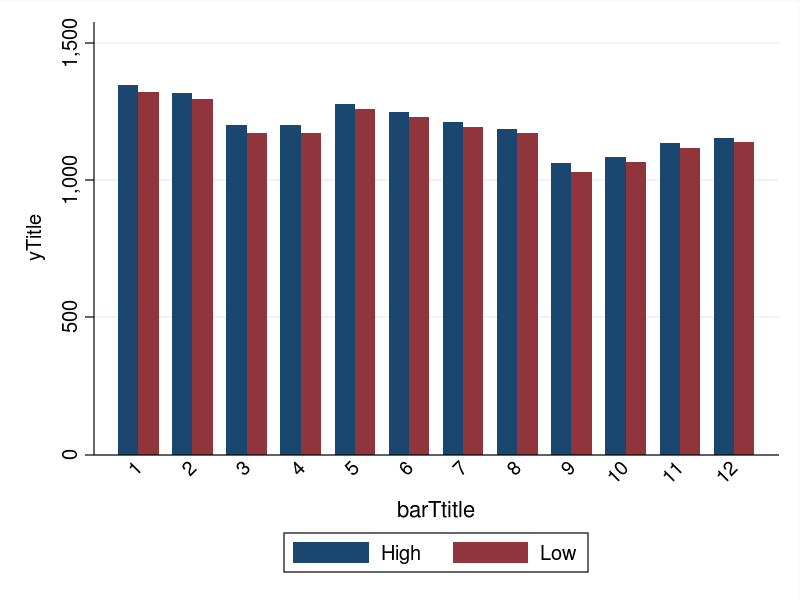
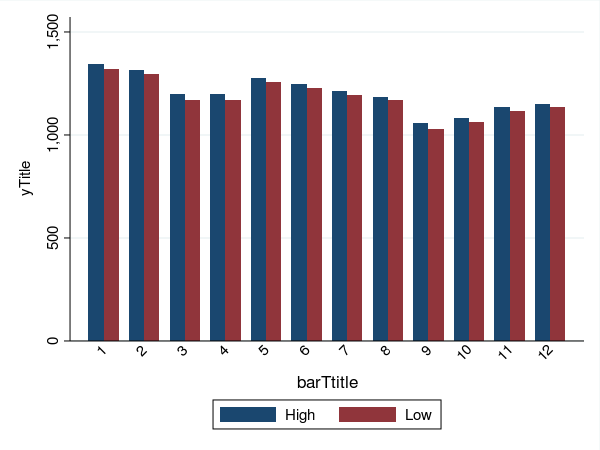
change

diff --git a/stata_graph.html b/stata_graph.html
@@ -27,7 +27,7 @@
 <CODE>. hist volume, by(trend)</CODE>
 </P>
 <P>
-<CODE>. grpah export vol_by_trend.png, replace width(800) height(600)</CODE>
+<CODE>. grpah export vol_by_trend.png, replace width(600) height(450)</CODE>
 </P>
 <P>
 <IMG ALIGN="middle" SRC="figs/stata_vol_by_trend.png" BORDER="0" ALT="">
@@ -36,7 +36,7 @@
 <CODE>. hist volume, percent by(trend, note("Note") graphregion(color(white))) color(*1.3) xtitle("xTitle") xlabel(5000(10000)25000, angle(45)) ytitle("yTitle", height(6)) ylabel(0(5)30, angle(45))</CODE>
 </P>
 <P>
-<CODE>. graph export vol_by_trend2.png, replace width(800) height(600)</CODE>
+<CODE>. graph export vol_by_trend2.png, replace width(600) height(450)</CODE>
 </P>
 <P>
 <IMG ALIGN="middle" SRC="figs/stata_vol_by_trend2.png" BORDER="0" ALT="">
@@ -45,7 +45,7 @@
 <CODE>. graph bar month</CODE>
 </P>
 <P>
-<CODE>. export month1.png, replace width(800) height(600)</CODE>
+<CODE>. export month1.png, replace width(600) height(450)</CODE>
 </P>
 <P>
 <IMG ALIGN="middle" SRC="figs/stata_month1.png" BORDER="0" ALT="">
@@ -54,7 +54,7 @@
 <CODE>. graph bar, over(month)</CODE>
 </P>
 <P>
-<CODE>. export month2.png, replace width(800) height(600)</CODE>
+<CODE>. export month2.png, replace width(600) height(450)</CODE>
 </P>
 <P>
 <IMG ALIGN="middle" SRC="figs/stata_month2.png" BORDER="0" ALT="">
@@ -63,7 +63,7 @@
 <CODE>. graph bar high,  over(month)</CODE>
 </P>
 <P>
-<CODE>. export high.png, replace width(800) height(600)</CODE>
+<CODE>. export high.png, replace width(600) height(450)</CODE>
 </P>
 <P>
 <IMG ALIGN="middle" SRC="figs/stata_high.png" BORDER="0" ALT="">
@@ -72,7 +72,7 @@
 <CODE>. graph bar high low,  over(month)</CODE>
 </P>
 <P>
-<CODE>. export high_low.png, replace width(800) height(600)</CODE>
+<CODE>. export high_low.png, replace width(600) height(450)</CODE>
 </P>
 <P>
 <IMG ALIGN="middle" SRC="figs/stata_high_low.png" BORDER="0" ALT="">
@@ -81,7 +81,7 @@
 <CODE>. graph bar high low,  over(month, label(angle(45))) graphregion(color(white))) b1title("barTitle") ytitle("yTitle", height(6)) legend(lab(1 "High") lab(2 "Low"))</CODE>
 </P>
 <P>
-<CODE>. export high_low2.png, replace width(800) height(600)</CODE>
+<CODE>. export high_low2.png, replace width(600) height(450)</CODE>
 </P>
 <P>
 <IMG ALIGN="middle" SRC="figs/stata_high_low2.png" BORDER="0" ALT="">
@@ -90,7 +90,7 @@
 <CODE>. graph bar high, over(evenmonth)</CODE>
 </P>
 <P>
-<CODE>. export evenhigh.png, replace width(800) height(600)</CODE>
+<CODE>. export evenhigh.png, replace width(600) height(450)</CODE>
 </P>
 <P>
 <IMG ALIGN="middle" SRC="figs/stata_evenhigh.png" BORDER="0" ALT="">
